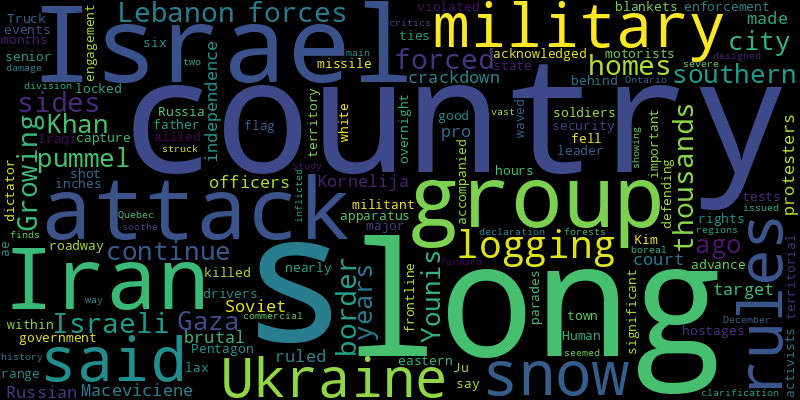
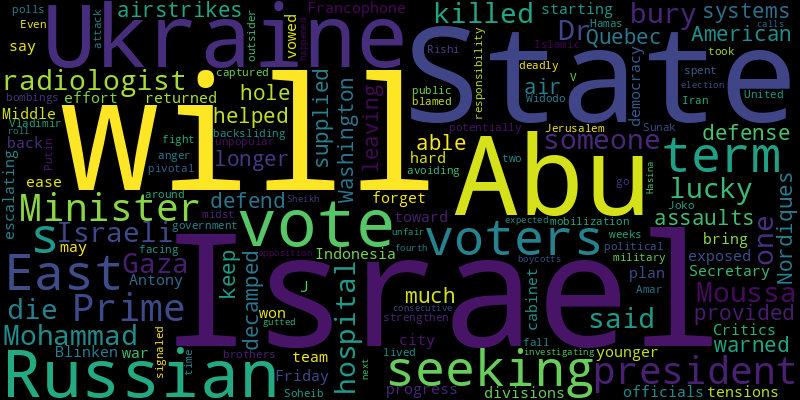
chore(bot): 🙏 auto commit

diff --git a/README.md b/README.md
@@ -2,41 +2,41 @@
 Auto RSS New York Times and Generate Word Cloud
 
 ## New York Times Global News
-* Growing attacks have forced thousands from their homes on both sides of the border between Lebanon and Israel, while Israeli forces continue to pummel the southern Gaza city of Khan Younis.
-* A few years ago, Kornelija Maceviciene ruled against Soviet officers for a brutal crackdown on pro-independence protesters in her country in 1991. That has made her a target for a Russian court.
-* The attack, acknowledged by the Pentagon, killed a senior militant leader of an Iran-allied group with ties to the Iraqi government’s security apparatus.
-* Israel’s military said that soldiers who shot hostages, while they waved a white flag, violated its rules of engagement. Human rights activists say the rules are good, but enforcement is lax.
-* Truck drivers and other motorists were locked in blankets of snow on a major roadway overnight after nearly 10 inches of snow fell within 24 hours.
-* Kim Ju-ae has long accompanied her dictator father to important state events, like long-range missile tests and military parades.
-* Ukraine said it was defending territory behind the eastern frontline town. Its capture would be Russia’s most significant territorial advance in Ukraine in more than six months.
-* The clarification on a declaration issued in December seemed designed to soothe critics while also showing that this is the way forward.
-* A study finds that logging has inflicted severe damage to the vast boreal forests in Ontario and Quebec, two of the country’s main commercial logging regions.
-* The group, which has struck before in Iran, has a long history of division with the country.
+* “The lucky are those who have someone to bury them when they die,” Dr. Mohammad Abu Moussa, a radiologist at one Gaza hospital, said of those killed by Israeli airstrikes.
+* The American-provided air-defense systems have helped Ukraine defend itself against Russian assaults, but Washington has warned that it will not be able to keep them supplied for much longer.
+* Ever since the Quebec Nordiques decamped in 1995, leaving a hole in the Francophone city, vote-seeking officials have vowed to bring them back. But younger voters may be starting to forget the team.
+* The plan exposed divisions in Israel’s war cabinet as Secretary of State Antony J. Blinken returned to the Middle East on Friday in an effort to ease escalating tensions.
+* Critics say that hard-won progress toward democracy in Indonesia has been backsliding under Joko Widodo, a two-term president who was once a political outsider.
+* President Vladimir V. Putin is seeking to strengthen his military to fight in Ukraine while avoiding a potentially unpopular mobilization of Russians.
+* Even after the Islamic State took responsibility for deadly bombings, Iran’s government, facing public anger, blamed Israel.
+* Prime Minister Rishi Sunak signaled that voters will go to the polls in the fall, around the time that the United States will be in the midst of its own pivotal vote.
+* Soheib Abu Amar, who lived in East Jerusalem, was captured by Hamas during its attack on Israel. His brothers spent weeks investigating what happened next.
+* Prime Minister Sheikh Hasina is expected to roll to a fourth consecutive term as the gutted opposition boycotts what it calls an unfair election.
 
 ![Global](./global.png)
 ## New York Times United States News
-* Donald J. Trump’s eligibility for the presidential ballot has been challenged in more than 30 states, but only a handful of those cases have gained traction so far.
-* Claudine Gay celebrated her history making appointment. But after she resigned, she spoke very differently about her experience.
-* The University of California, Berkeley, has been trying for years, against determined opposition, to build new student housing on part of the iconic property.
-* The investigation of Lt. Gov. Burt Jones was delayed after a judge blocked the Fulton County district attorney from conducting it. Nobody has been tapped to take over.
-* The president is returning to the battleground state for a speech near Valley Forge aiming to define this year’s election as a fight for democracy.
-* In dueling town halls hosted by CNN, Nikki Haley struggled to find her footing at times, while Ron DeSantis delivered a confident performance.
-* Thousands of people from African nations are flying to Central America and then traveling over land to Mexico and on to the southern border.
-* Christopher Worrell had gone on the run after his conviction last August, and was captured six weeks later.
-* Three commemorative coins featuring Ms. Tubman were released for purchase on Thursday. They were expected to ship out next month, the U.S. Mint said.
-* Ron DeSantis has aggressively sought the endorsements of influential Iowans.
+* Neri Oxman, a former M.I.T. professor, is accused of copying from Wikipedia. Her husband, Bill Ackman, vowed to check the work of the entire M.I.T. faculty.
+* Randy Roedema, the only police officer convicted in the death of Mr. McClain, was sentenced to 14 months in a county jail.
+* Gov. Mike DeWine, who had vetoed a ban on gender transition care for minors just a week ago, issued an executive order that prohibits transition surgeries for all residents.
+* A California judge who initially found the suspect incompetent to stand trial ruled on Friday that after treatment at a state psychiatric hospital, he now met the legal standard.
+* In dueling sets of speeches, Donald Trump and President Biden are framing the election as a battle for the future of democracy — with Mr. Trump brazenly casting Mr. Biden as the true menace.
+* The top presidential candidates are vowing to protect the entitlement programs for current seniors, though some have floated changes for younger generations. But they’ve muddied each other’s current positions.
+* U.S. News sells “badges” to colleges, so they can promote their rankings — whether they are 1st, 10th or much, much lower.
+* The filing by Jack Smith was the latest volley in a battle over the timing of the case accusing the former president of plotting to overturn the 2020 election.
+* At a campaign event in Iowa, former President Donald J. Trump denounced Nikki Haley, the former governor of South Carolina, as the choice of corporate and political elites.
+* The Georgia congresswoman has repeatedly downplayed, and at times defended, the attack on the Capitol three years ago.
 
 ![US](./usnews.png)
 ## New York Times Asia News
+* Attacks on two dozen ships since November are forcing shipping lines to figure out whether and when to skip the Suez Canal and send vessels on longer voyages around Africa.
+* Critics say that hard-won progress toward democracy in Indonesia has been backsliding under Joko Widodo, a two-term president who was once a political outsider.
+* The recall follows a similar move by the company in the United States to upgrade the cars’ Autopilot feature.
+* The Africa Cup of Nations and the Asian Cup, once seen as poorly timed intrusions by European soccer, may finally be getting the respect they deserve.
+* Prime Minister Sheikh Hasina is expected to roll to a fourth consecutive term as the gutted opposition boycotts what it calls an unfair election.
 * The South asked nearby islanders to seek shelter before it launched a military exercise in the disputed waters and chided the North for “threatening peace.”
-* Hundreds of passengers were evacuated from the crash near the city of Bandung. Rescuers were still trying to extract two people from one of the trains.
+* Hundreds of passengers were evacuated from the crash near the city of Bandung. The cause of the accident was not immediately clear, and the authorities have opened an investigation.
 * Plus the seven keys to longevity.
 * Russia has rebuilt its own domestic supply of cruise missiles, but to keep up with the intensity of the barrage against Ukraine, it has been turning to North Korea and Iran.
 * Kim Ju-ae has long accompanied her dictator father to important state events, like long-range missile tests and military parades.
-* Some analysts see the objects as a calculatedly ambiguous reminder to voters that Beijing is watching.
-* Plus, China shakes up its military.
-* Anton Deibe, 17, and his family were flying into Tokyo when their plane collided with a Coast Guard aircraft.
-* In addition to a well-trained crew and an advanced plane, the safe evacuation of 367 passengers came down to a relative absence of panic.
-* The attack on Lee Jae-myung, who narrowly lost the 2022 presidential vote, came amid a deepening political divide and increasingly extreme discourse in South Korea.
 
 ![Asian](./asian.png)
